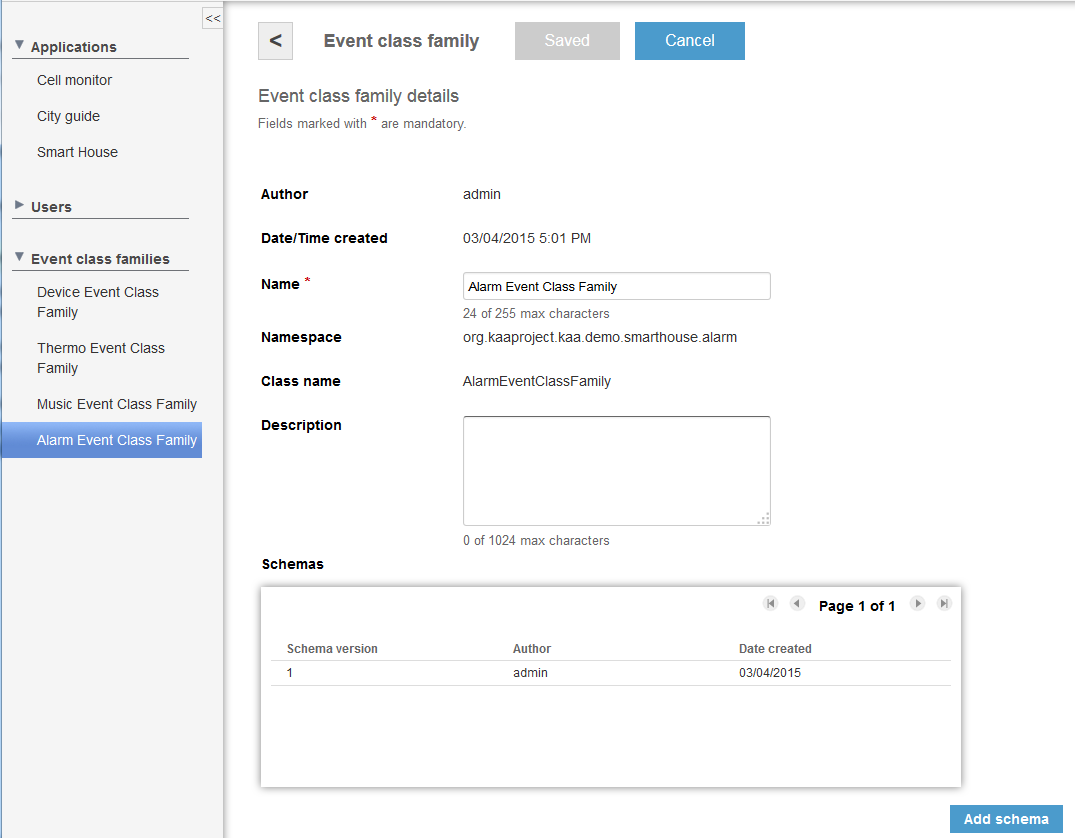
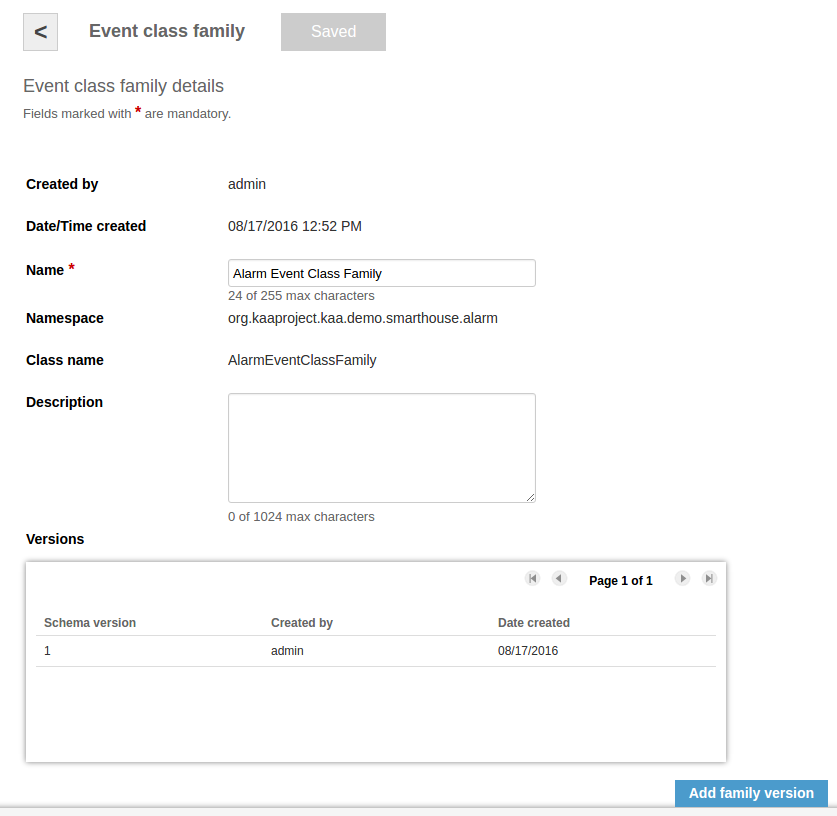
KAA-1168 fixed Events doc according to CTL migration

diff --git a/doc/Programming-guide/Key-platform-features/Events/index.md b/doc/Programming-guide/Key-platform-features/Events/index.md
@@ -113,9 +113,7 @@ The structure is: ECF contains list of ECFVs, each ECFV contain list of ECs.
 
 An ECF is uniquely identified by its name and/or class name and tenant. In other words, there cannot be two ECFs with the same name or same class name within a single tenant. Although this is quite a strict requirement, it helps prevent naming collisions during the SDK generation.
 
-An ECFV represents list of ECs. This means, if list of ECs changed then new ECFV is created.
-
-#TODO To simplify the process of EC and ECF setup, Kaa Web UI automatically creates the ECF and corresponding EC entities based on the ECF name, class name and schema.
+An ECFV represents list of ECs. If you need to change the list of ECs then new ECFV must be created.
 
 Unlike EC, ECF and ECFV doesn't contain any schemas. 
 
@@ -827,14 +825,13 @@ Admin REST API provides the following actions:
 * [Get event classes]({{root_url}}Programming-guide/Server-REST-APIs/#!/Events/getEventClassesByFamilyIdVersionAndType)
 * [Get vacant event class families by application token]({{root_url}}Programming-guide/Server-REST-APIs/#!/Events/getVacantEventClassFamiliesByApplicationToken)
 
-#TODO
 ## Kaa Events Admin UI
 
 #### Managing event class families
 
 > **NOTE:** this functionality available for Tenant admin
 
-To use the Kaa events feature for one or more applications, the tenant admin should create an event class family (ECF). Each ECF should be described using the Avro format. 
+To use the Kaa events feature for one or more applications, the tenant admin should create an event class family (ECF). 
 
 To create a new ECF, do the following:
 
@@ -842,16 +839,23 @@ To create a new ECF, do the following:
 2. In the **Event class families** window, click **Add ECF**. 
 ![](images/admin_ui/event_class_family/ecf1.png)
 3. In the **Add ECF** window, fill in all the required fields and then click **Add**.  
-**NOTE:** _the namespace and class name values should be unique._
+<br> **NOTE:** _the namespace and class name values should be unique._
 ![](images/admin_ui/event_class_family/ecf2.png)
-4. In the **Event class family** window, add (optionally) an ECF schema by clicking **Add schema** under the **Schemas** table. 
+4. In the **Event class family** window, add (optionally) an ECF version by clicking **Add family version** under the **Versions** table. 
 ![](images/admin_ui/event_class_family/ecf3.png)
-5. In the **Add event class family schema** window, create an ECF schema either by using the **Event class family schema** schema form or by uploading the schema from a file, then click **Add**.
-**NOTE:** _More than one schema can be added to an ECF._
-**NOTE:** _If uploaded from a file, a schema(s) should be written in the Avro format and describe how event classes should be grouped depending on subject areas._
+5. In the **Family version** window, create an ECF version by adding ECs by clicking **Add event class** and after all ECs are set up click button **Save**.
+<br> **NOTE:** _More than one version can be added to an ECF._
 ![](images/admin_ui/event_class_family/ecf4.png)
-A unique version number is assigned to a schema after its creation and then the schema appears as a clickable line in the **Schemas** table. To review the ECF schema details, click the appropriate schema line in the **Schemas** table. Each schema automatically splits into event classes. A full qualifier name, schema and type are shown for each event class in the table with the same name.
+A unique version number is assigned to a family version after its creation and then the family version appears as a clickable line in the **Versions** table. To review the ECF version details, click the appropriate version line in the **Versions** table. Each family version automatically splits into event classes. A name, type, created by, date created and flat representation of corresponding [CTL schema]({{root_url}}Programming-guide/Key-platform-features/Common-Type-Library/) are shown for each event class in the table with the same name.
 ![](images/admin_ui/event_class_family/ecf5.png)
+![](images/admin_ui/event_class_family/ecf6.png)
+6. In the **Add event class** window, fill in all the required fields and then click **Add**. 
+You are able to select existing [CTL schema]({{root_url}}Programming-guide/Key-platform-features/Common-Type-Library/) or create new. 
+To select existing [CTL schema]({{root_url}}Programming-guide/Key-platform-features/Common-Type-Library/) click on **Select fully qualified name of existing type** text field and choose one of available CTL schemas.
+To create new [CTL schema]({{root_url}}Programming-guide/Key-platform-features/Common-Type-Library/) click **Create new type** and go to p.7.
+![](images/admin_ui/event_class_family/ecf7.png)
+7. In the **Add new type** window, fill in all the required fields and then click **Add** or click **Choose file**. 
+![](images/admin_ui/event_class_family/ecf8.png)
 
 #### Adding event family mappings
 
@@ -869,5 +873,3 @@ To add a new mapping, do the following:
 2. Select an appropriate ECF from the drop-down list and then set appropriate actions for each class of the family.
 
 ![](images/admin_ui/event_family_mapping/efm2.png)
-
-
